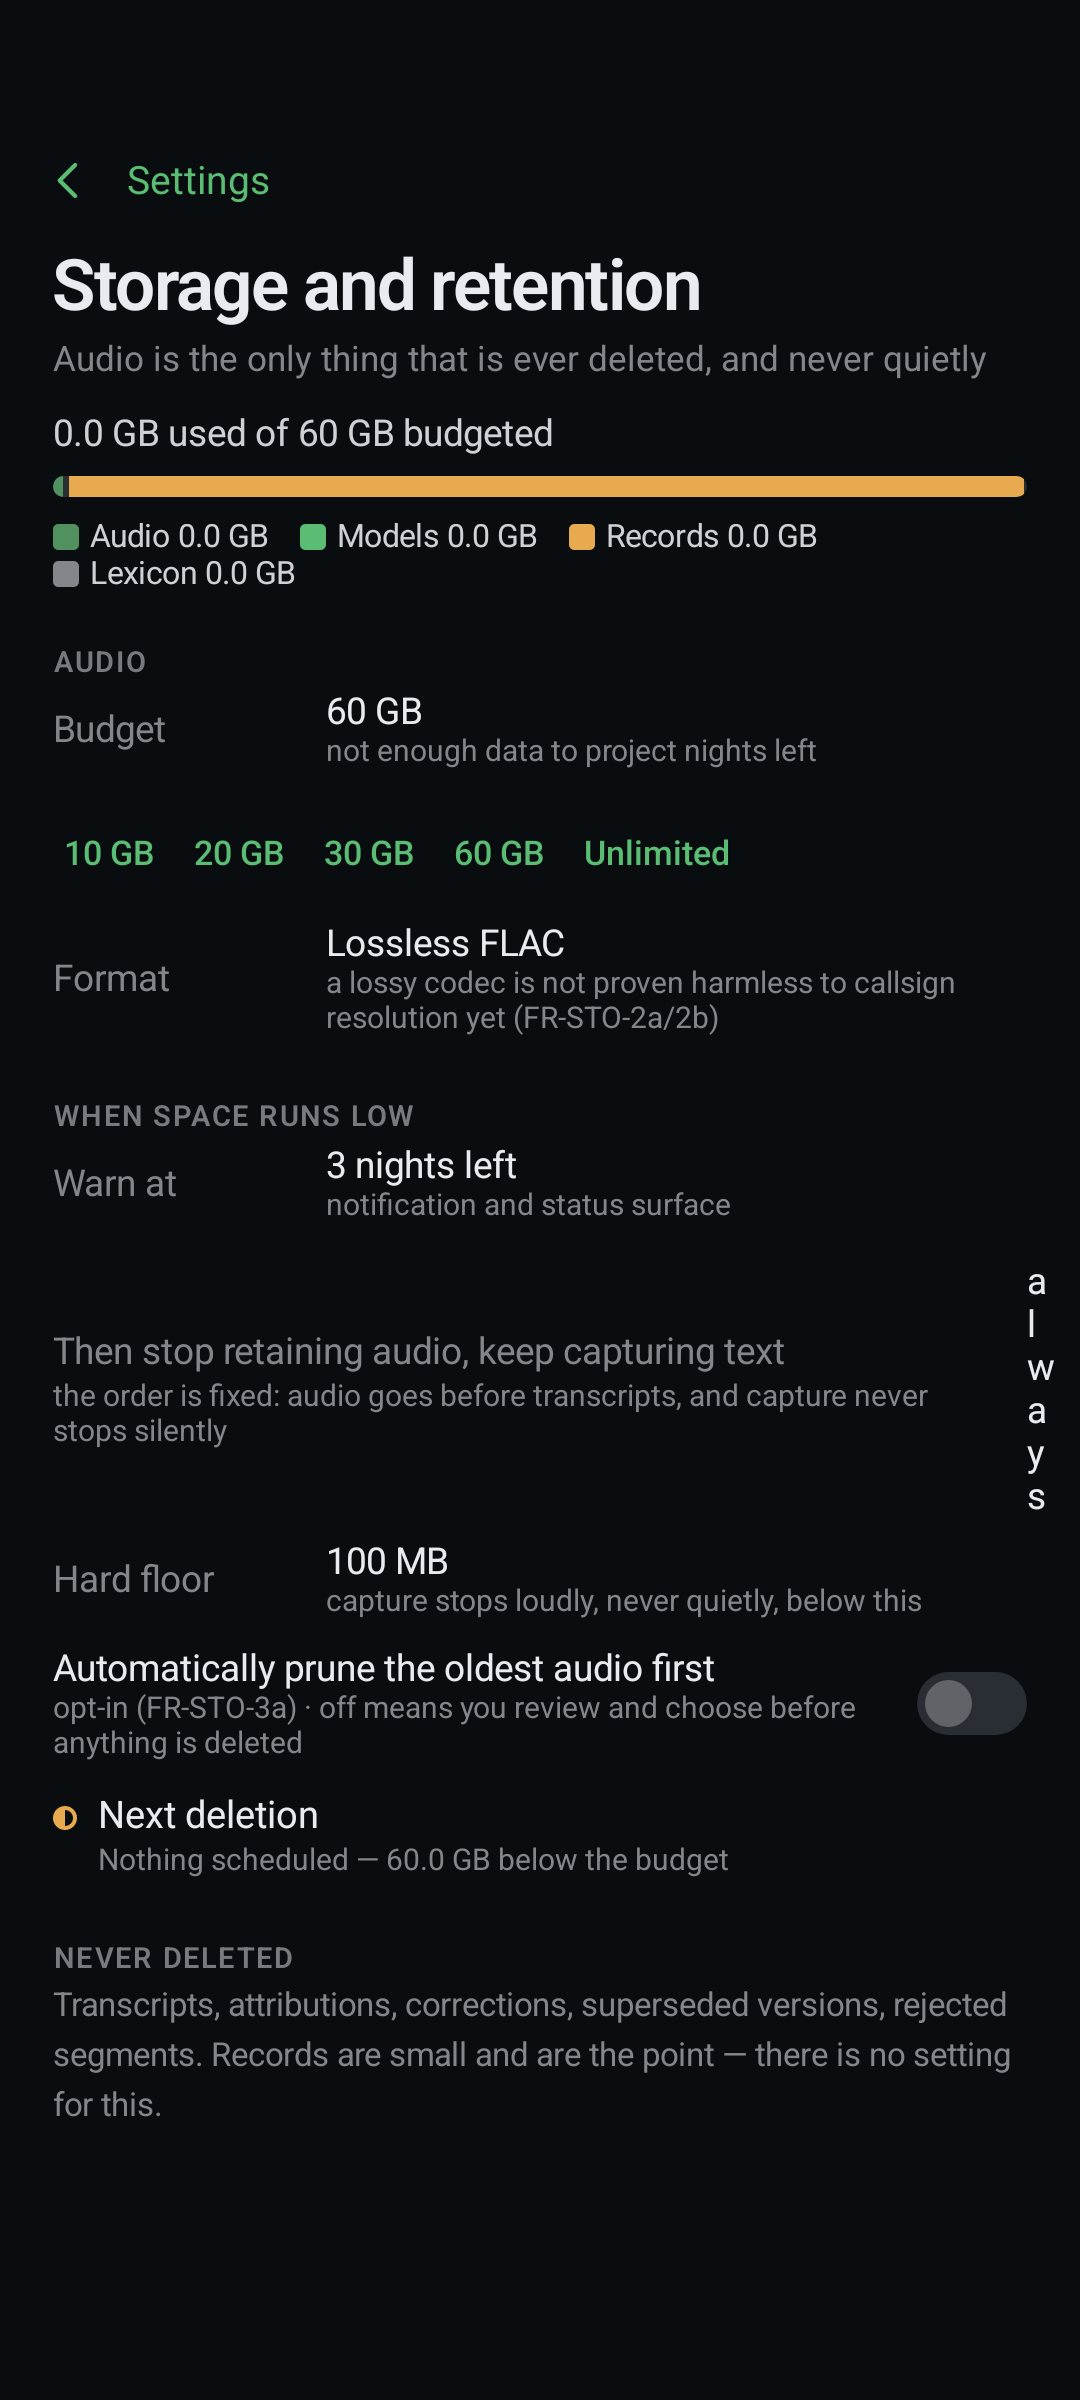
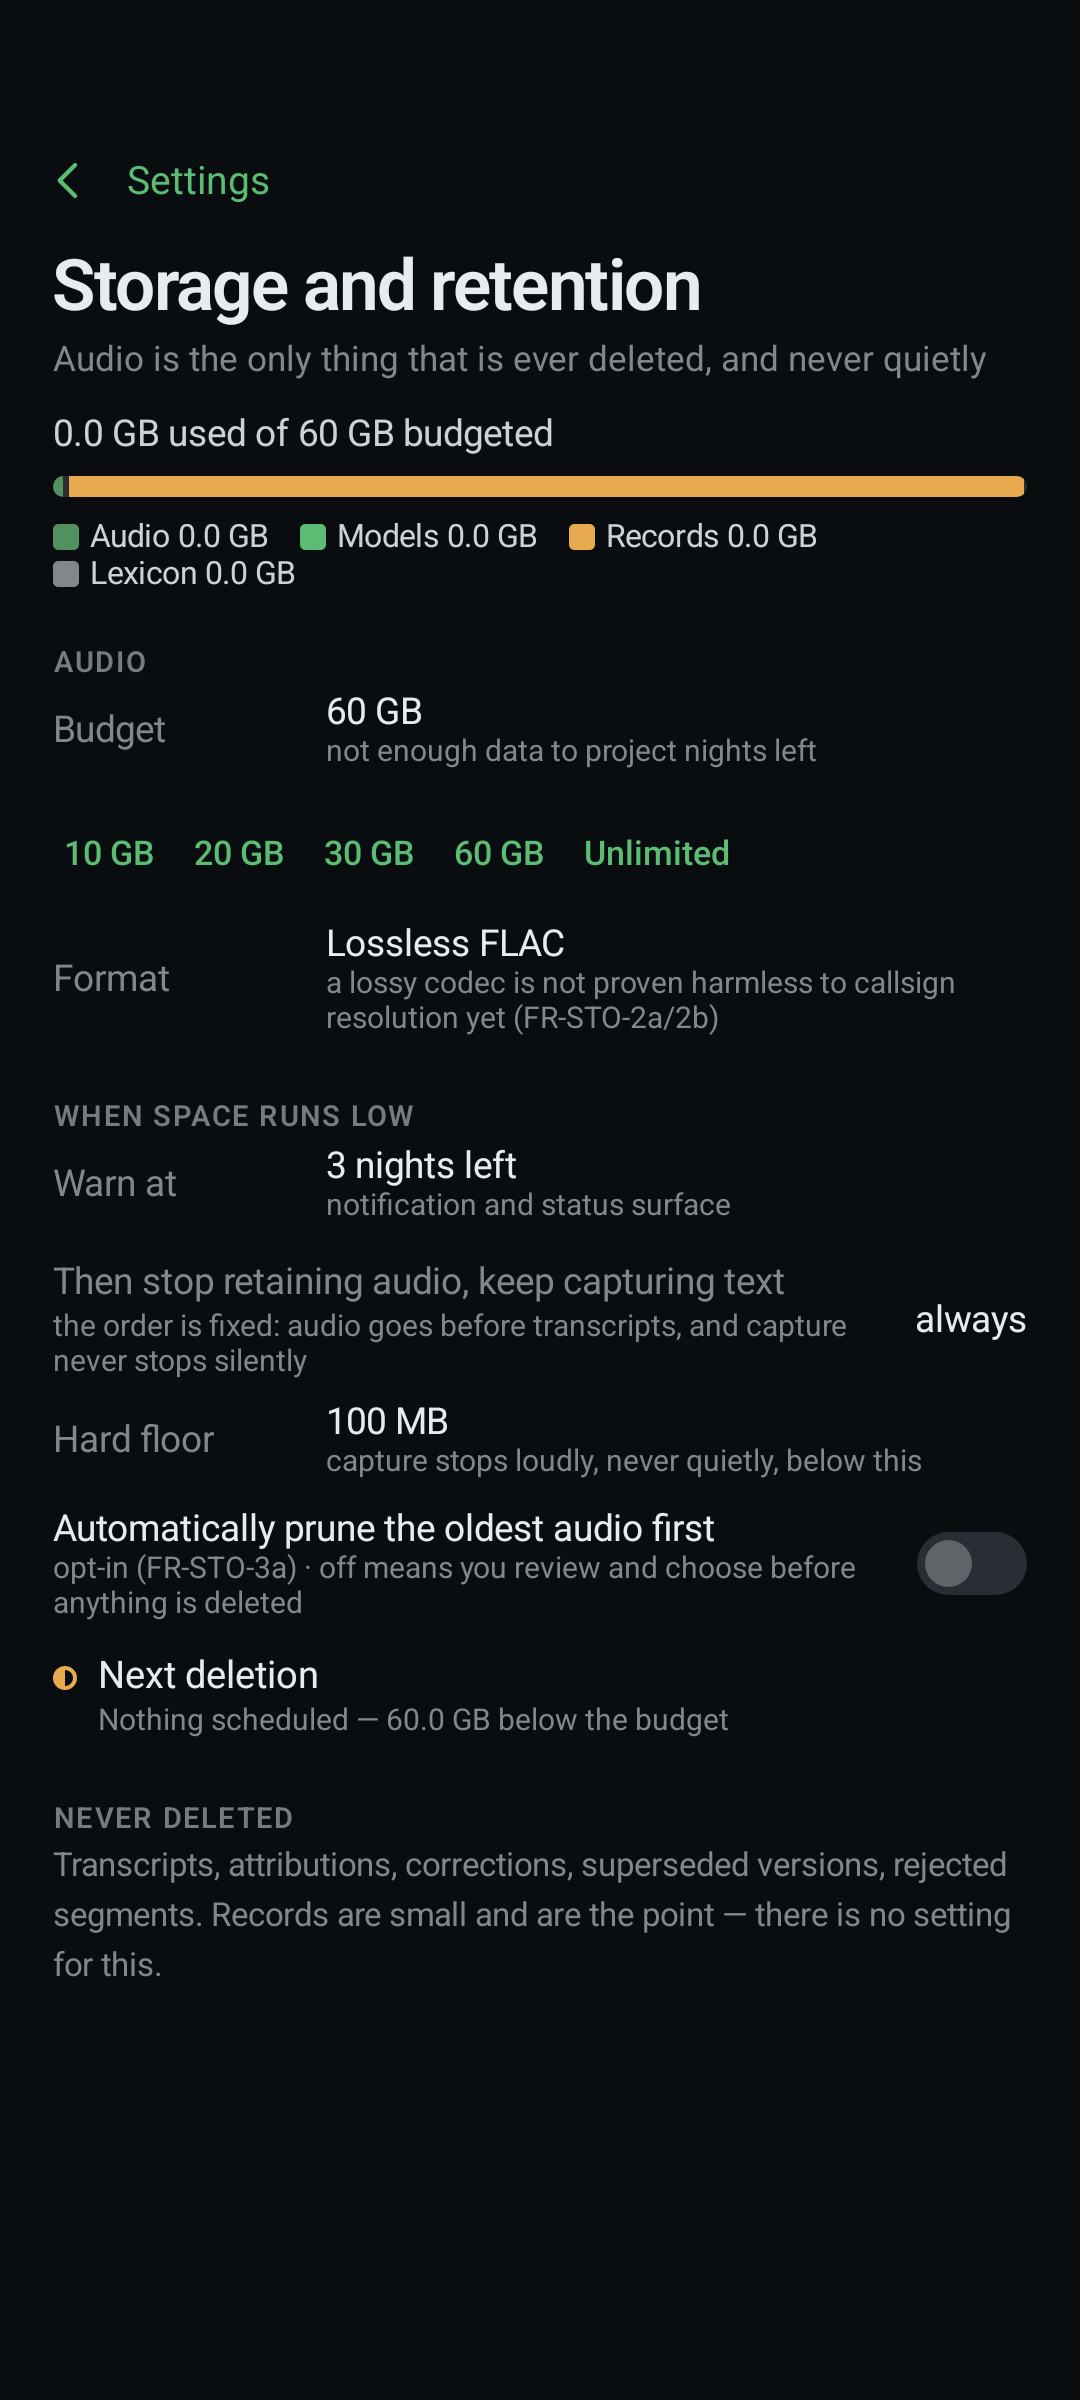
ui-conformance · register: WP10 35570fa merged, R-590 closed on recapture

diff --git a/results/ui-audit/register.md b/results/ui-audit/register.md
@@ -409,6 +409,6 @@ Filed by the emulator validators (plan §E) against the build named in each row;
 | R-572 | ST04 Station-Identity sub-lines | `Station-Identity`, constitution | Review 4 @ebf4004: Callsign sub-line drops "parsed from audio every time" and Voiceprint drops "stable since <date>" — the audio-level-resolution qualifier and the stability clause the board states. `stations-14-nights/ST04-station-identity.png`. WP8. WP8 1e2ec9a: "stable since" = earliest over in the bound cluster (a real first-seen fact, not a stability judgement — accepted); omitted honestly when no voiceprint. Review 5 @cbaca66: confirmed. | polish | closed |
 | R-573 | ST03 Station-Pattern default tab | `Station-Pattern` | Review 4 @ebf4004: the board's active tab on load is "Hour × day"; the build defaults to "By hour". `stations-14-nights/ST03-station-pattern.png`. WP8. WP8 1e2ec9a. V-final @cbaca66: Hour × day checked on load. | design | closed |
 | R-574 | ST03 Station-Pattern By-hour chart axis | `Station-Pattern`, `Charts` C09 | Review 4 @ebf4004: the 24-bar chart carries no hour-axis labels or ticks (Charts board: boundary times at both ends and the not-listening legend). `stations-14-nights/ST03-station-pattern.png`. WP8. WP8 1e2ec9a: axis 22:00 / 06:00 via ActivityPatternChart. V-final @cbaca66: 22:00 / 06:00 axis labels. | design | closed |
-| R-590 | CF03 Settings-Storage "Then stop retaining audio" row at 1.0 | `Settings-Storage`, cf. R-551 | Review 5 @cbaca66: `RetentionOrderRow` stacks label / "always" / sub-line unconditionally although width is ample at 1.0, breaking the label-left / value-right table pattern of every sibling row (board line 81 places "always" beside the wrapped label, vertically centred). Stack only when the scaled text needs it (e.g. fontScale ≥ 1.3 or a measured overflow), side-by-side otherwise. `overnight/CF03-settings-storage.png`. WP10. WP10 1338db8: side-by-side below fontScale 1.3, stack above; R_590 at 1.0 and 2.0. Lead @72a08b1 tour recapture at 1.0: worse — "always" renders one letter per line at the right edge (label wins the width). WP10 sent the capture. | design | open |
+| R-590 | CF03 Settings-Storage "Then stop retaining audio" row at 1.0 | `Settings-Storage`, cf. R-551 | Review 5 @cbaca66: `RetentionOrderRow` stacks label / "always" / sub-line unconditionally although width is ample at 1.0, breaking the label-left / value-right table pattern of every sibling row (board line 81 places "always" beside the wrapped label, vertically centred). Stack only when the scaled text needs it (e.g. fontScale ≥ 1.3 or a measured overflow), side-by-side otherwise. `overnight/CF03-settings-storage.png`. WP10. WP10 1338db8: side-by-side below fontScale 1.3, stack above; R_590 at 1.0 and 2.0. Lead @72a08b1 tour recapture at 1.0: worse — "always" renders one letter per line at the right edge (label wins the width). WP10 sent the capture. WP10 35570fa; lead-confirmed on the 2af5568 tour recapture: "always" beside the label at 1.0, stacked at 2.0. | design | closed |
 | R-591 | FQ03 Frequency-Change closing paragraph | `Frequency-Change`, FR-UI-11, cf. R-563 | Review 5 @cbaca66: the sentence splices the raw list-item text — "This one has an explanation — KE7QRS · 1 over · first time heard." — instead of a narrated clause like the board's "an activation pulled the regulars over." Narrate the cause from its kind (activation / new station / net) and keep the dotted facts to the list. `frequency-change/FQ03-frequency-change@2x.png`. WP8. WP8 365804e: narrateFrequencyChangeCause by kind (new station / activation / net), honest fallback for unknown; the fixture yields the new-station sentence. Lead @72a08b1 tour recapture: "a station heard for the first time, KE7QRS, brought the regulars out." | design | closed |
 | R-592 | Full gate (`:app:testDebugUnitTest`) | process, cf. cb1d8cd poison hunt | Lead @cbaca66: the suite wedges in `LevelMeterScreenTest.R_542` (WP4 db8d92e) — "SDK 34 Main Thread" spins in `RobolectricIdlingStrategy.runUntilIdle` / `advanceTimeByFrame` for 25 min while the test worker parks on `waitForIdle`; the level-meter poller never lets Compose idle in the shared JVM. Passes alone. Fix the test (explicit clock, cancel the poller) or isolate the file into `smokeTestDebugUnitTest`. WP4. WP4 1338db8: LevelMeterScreenTest isolated into smoke (forkEvery 1); a second wedge remains in FrequencyScreenTest under the shared JVM (AppNotIdle 60 s per test; 14/14 in 8 s alone) — poison hunt 2 spawned. | process | partial |
